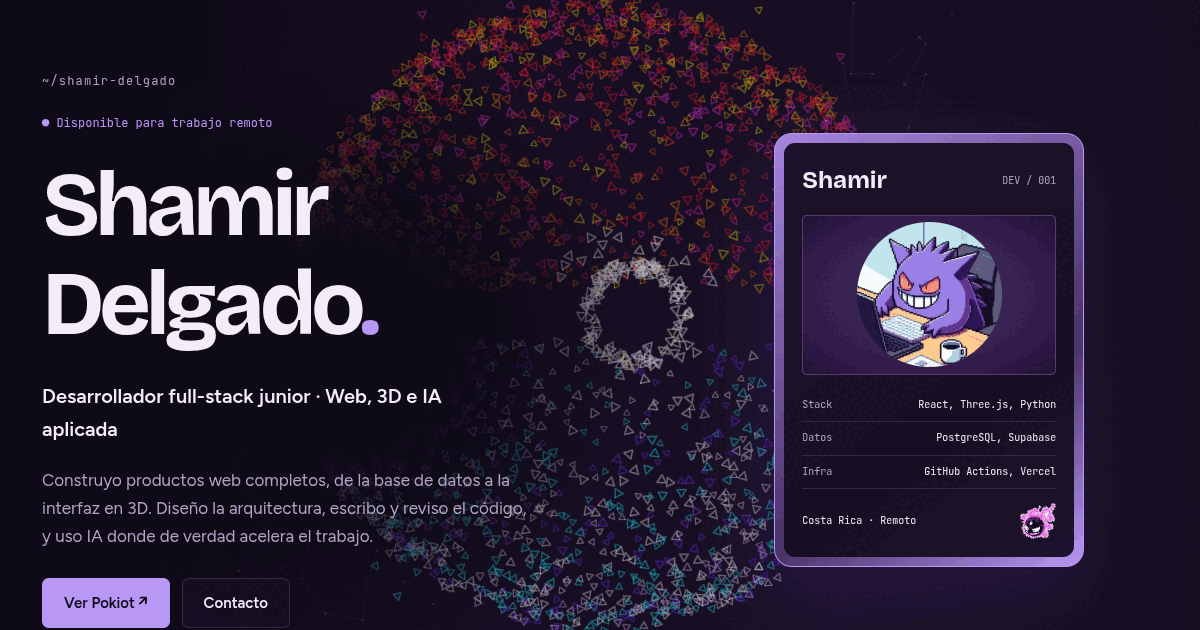
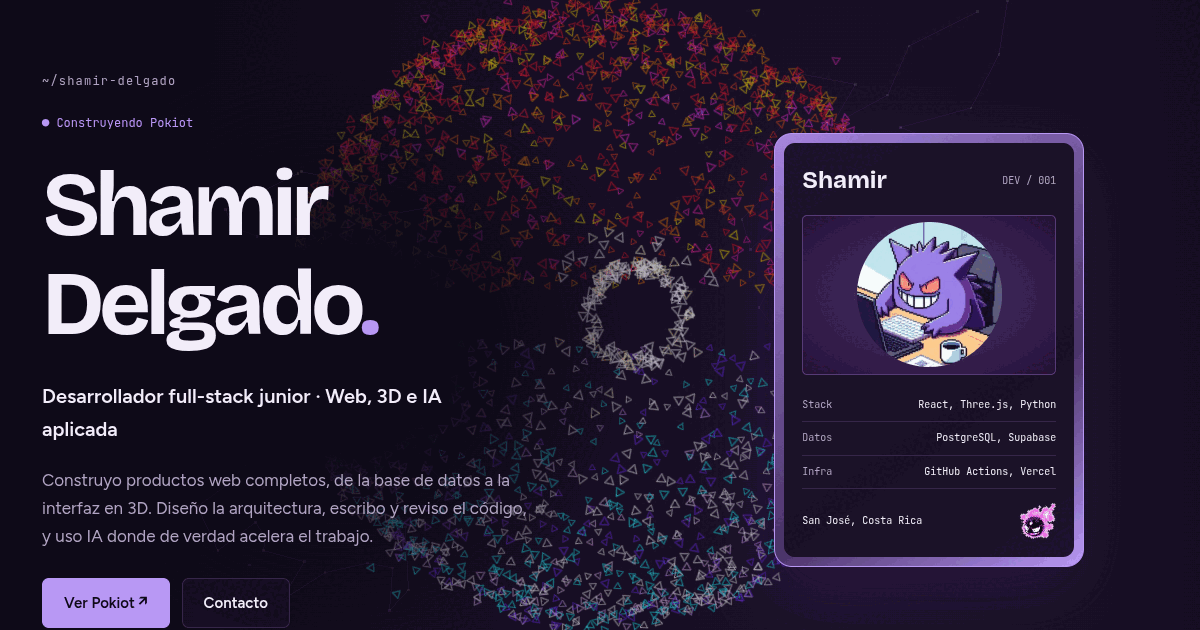
Portada y descripción sin mensajes de disponibilidad

Changed region(s): [[0.2775, 0.0, 0.7092, 1.0], [0.0308, 0.181, 0.2158, 0.2111], [0.6783, 0.8143, 0.7708, 0.8444]]

diff --git a/index.html b/index.html
@@ -4,10 +4,10 @@
     <meta charset="utf-8" />
     <meta name="viewport" content="width=device-width, initial-scale=1" />
     <title>Shamir Delgado | Full-stack junior · Web, 3D e IA · Costa Rica</title>
-    <meta name="description" content="Shamir Delgado, desarrollador full-stack junior en San José, Costa Rica. Proyectos web, experiencias 3D e IA aplicada. Disponible para trabajar en remoto." />
+    <meta name="description" content="Shamir Delgado, desarrollador full-stack junior en San José, Costa Rica. Proyectos web, experiencias 3D e IA aplicada." />
     <link rel="canonical" href="https://shamirdelgado.github.io/" />
     <meta property="og:title" content="Shamir Delgado | Full-stack junior" />
-    <meta property="og:description" content="Shamir Delgado, desarrollador full-stack junior en San José, Costa Rica. Proyectos web, experiencias 3D e IA aplicada. Disponible para trabajar en remoto." />
+    <meta property="og:description" content="Shamir Delgado, desarrollador full-stack junior en San José, Costa Rica. Proyectos web, experiencias 3D e IA aplicada." />
     <meta property="og:type" content="website" />
     <meta property="og:url" content="https://shamirdelgado.github.io/" />
     <meta property="og:locale" content="es_CR" />
@@ -17,7 +17,7 @@
     <meta property="og:image:alt" content="Portafolio de Shamir Delgado, desarrollador full-stack junior" />
     <meta name="twitter:card" content="summary_large_image" />
     <meta name="twitter:title" content="Shamir Delgado | Full-stack junior" />
-    <meta name="twitter:description" content="Shamir Delgado, desarrollador full-stack junior en San José, Costa Rica. Proyectos web, experiencias 3D e IA aplicada. Disponible para trabajar en remoto." />
+    <meta name="twitter:description" content="Shamir Delgado, desarrollador full-stack junior en San José, Costa Rica. Proyectos web, experiencias 3D e IA aplicada." />
     <meta name="twitter:image" content="https://shamirdelgado.github.io/img/og.png" />
     <meta name="twitter:image:alt" content="Portafolio de Shamir Delgado, desarrollador full-stack junior" />
     <link rel="apple-touch-icon" href="img/icon.png" />
@@ -170,7 +170,7 @@ document.documentElement.dataset.theme = theme;
       <div class="hero">
         <div class="hero-copy">
           <div class="eyebrow">~/shamir-delgado</div>
-          <p class="availability" data-es="● Disponible para trabajo remoto" data-en="● Available for remote work">● Disponible para trabajo remoto</p>
+          <p class="availability" data-es="● Construyendo Pokiot" data-en="● Building Pokiot">● Construyendo Pokiot</p>
           <h1>Shamir<br/>Delgado<span class="accent">.</span>
           </h1>
           <p class="role" data-es="Desarrollador full-stack junior · Web, 3D e IA aplicada" data-en="Junior full-stack developer · Web, 3D &amp; applied AI">Desarrollador full-stack junior · Web, 3D e IA aplicada</p>
@@ -209,7 +209,7 @@ document.documentElement.dataset.theme = theme;
                 </li>
               </ul>
               <div class="card-foot">
-                <span data-es="Costa Rica · Remoto" data-en="Costa Rica · Remote">Costa Rica · Remoto</span>
+                <span>San José, Costa Rica</span>
                 <img src="img/gastly1.png" alt="" width="36" height="36"/>
               </div>
             </div>
@@ -401,7 +401,6 @@ document.documentElement.dataset.theme = theme;
           <div class="about">
             <p  data-es="Estudio Ingeniería de Sistemas en la Universidad Latina de Costa Rica." data-en="I study Systems Engineering at Universidad Latina de Costa Rica.">Estudio Ingeniería de Sistemas en la Universidad Latina de Costa Rica.</p>
             <p  data-es="Conecto interfaces, lógica y datos para construir productos completos." data-en="I connect interfaces, logic and data to build complete products.">Conecto interfaces, lógica y datos para construir productos completos.</p>
-            <p  data-es="Busco trabajo remoto en desarrollo de software desde San José, Costa Rica." data-en="I am looking for remote software development work from San José, Costa Rica.">Busco trabajo remoto en desarrollo de software desde San José, Costa Rica.</p>
           </div>
         </section>
         <section id="contacto">
